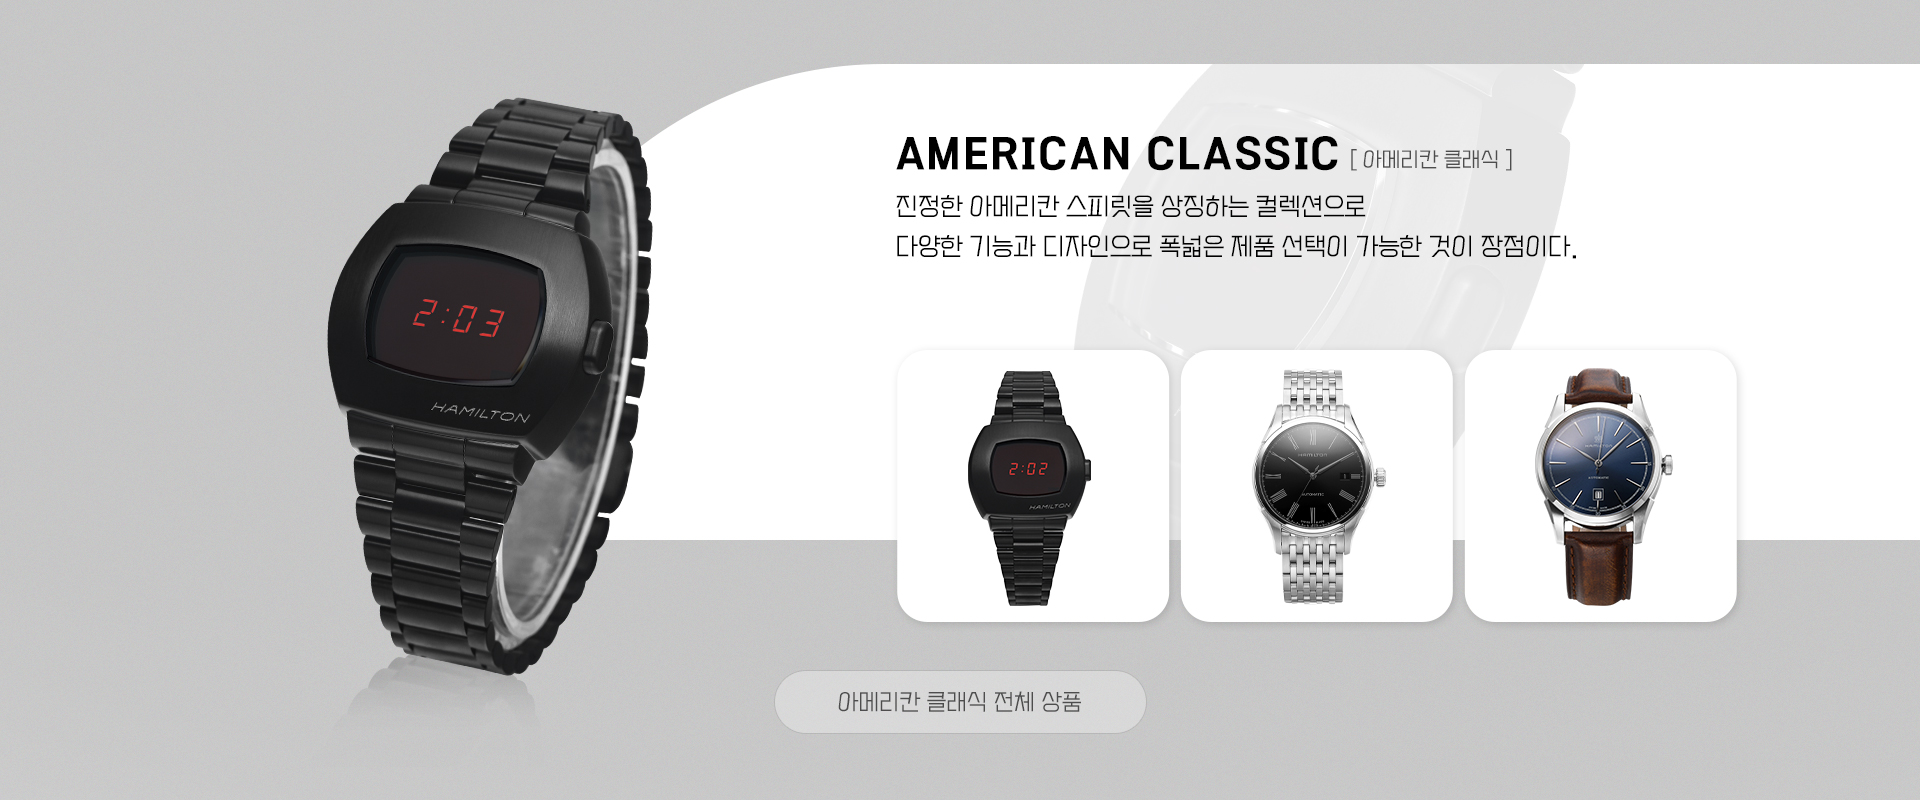
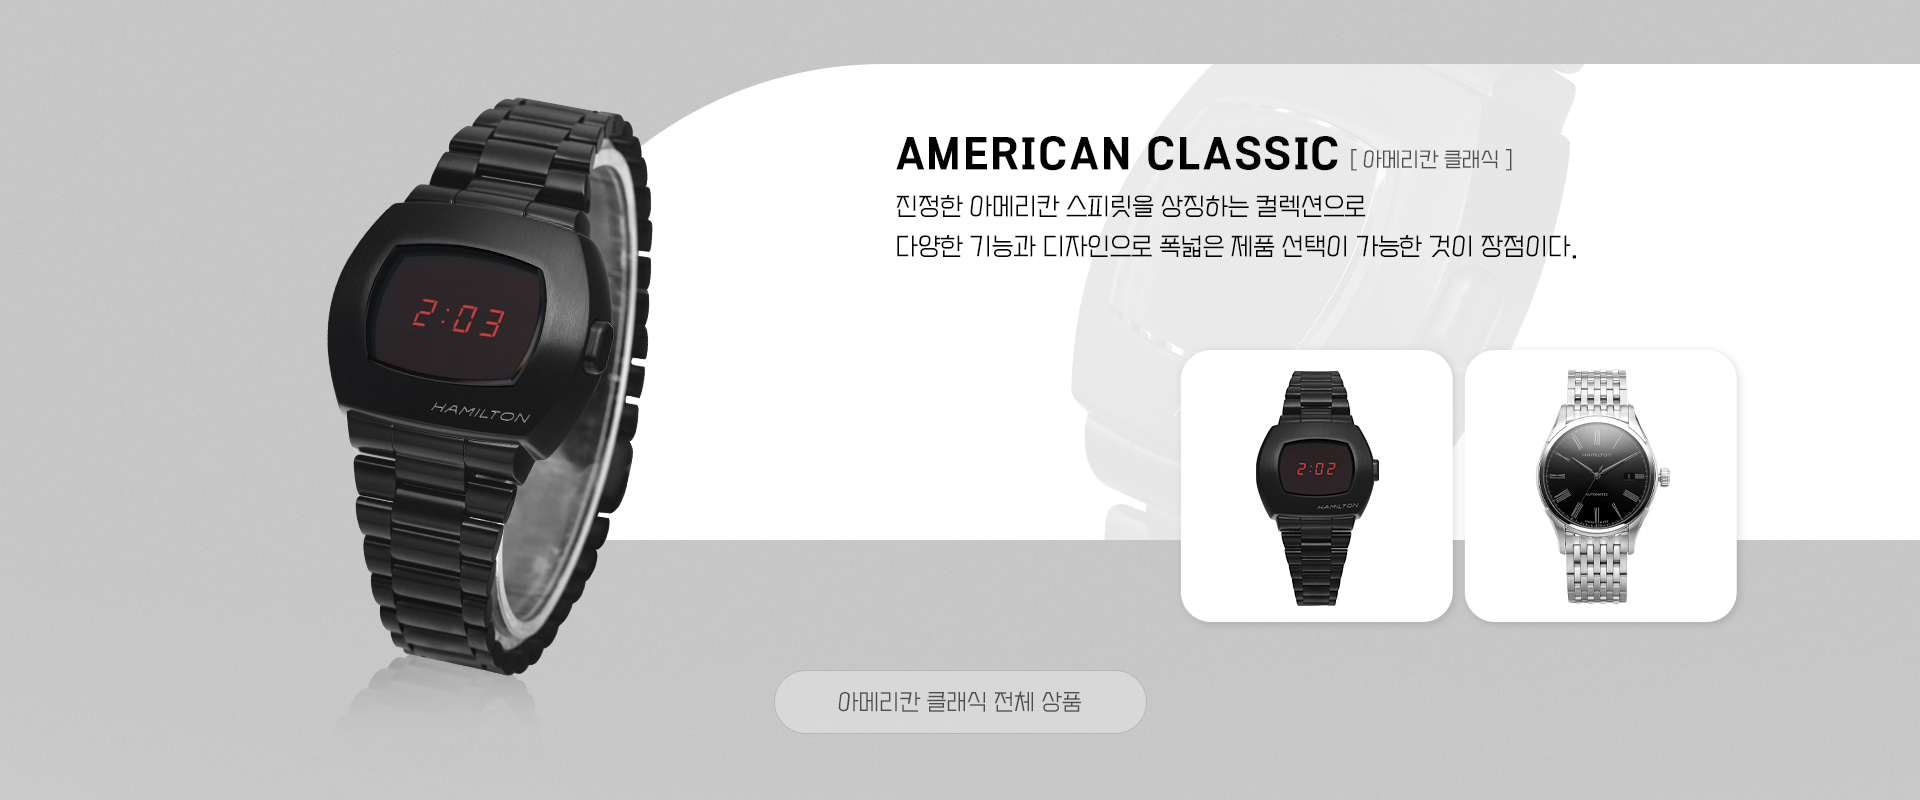
trendmecca 2023/11/29 Hamilton

Changed region(s): [[0.4688, 0.4688, 0.625, 0.7812], [0.7812, 0.4375, 0.875, 0.7812], [0.6562, 0.4375, 0.7188, 0.7812]]

diff --git a/trendmecca/hamilton/index.html b/trendmecca/hamilton/index.html
@@ -36,6 +36,226 @@
             <img src="img/sec2_bg_m.jpg"alt="section2 background image">
         </div>        
     </section>
-    
+    <section class="section3">
+        <div class="section3_swiper">
+            <ul class="swiper-wrapper">
+                <li class="swiper-slide">
+                    <a href="javascript:;" title="product no. H76645140" class="image_wrap">
+                        <img src="img/H76645140_3.png" alt="H76645140">
+                        <p class="product_no">H76645140</p>
+                    </a>
+                </li>
+                <li class="swiper-slide">
+                    <a href="javascript:;" title="product no. H70545540" class="image_wrap">
+                        <img src="img/H70545540_3.png" alt="H76645140">
+                        <p class="product_no">H70545540</p>
+                    </a>
+                </li>
+                <li class="swiper-slide">
+                    <a href="javascript:;" title="product no. H76615130" class="image_wrap">
+                        <img src="img/H76615130_3.png" alt="H76615130">
+                        <p class="product_no">H76615130</p>
+                    </a>
+                </li>
+                <li class="swiper-slide">
+                    <a href="javascript:;" title="product no. H32565135" class="image_wrap">
+                        <img src="img/H32565135_3.png" alt="H32565135">
+                        <p class="product_no">H32565135</p>
+                    </a>
+                </li>
+                <li class="swiper-slide">
+                    <a href="javascript:;" title="product no. H32705541" class="image_wrap">
+                        <img src="img/H32705541_3.png" alt="H32705541">
+                        <p class="product_no">H32705541</p>
+                    </a>
+                </li>
+                <li class="swiper-slide">
+                    <a href="javascript:;" title="product no. H42545551" class="image_wrap">
+                        <img src="img/H42545551_3.png" alt="H42545551">
+                        <p class="product_no">H42545551</p>
+                    </a>
+                </li>
+            </ul>
+        </div>
+    </section>
+    <section class="section4">
+        <div class="content_pc">
+            <img src="img/sec4_bg.jpg" alt="section4 background image">
+            <a href="javascript:;" title="재즈마스터 전체상품" style="position: absolute; left: 40.4%; bottom:8.2%; width:19.4%; height:8%;"></a>
+            <div class="section4_swiper">
+                <ul class="swiper-wrapper">
+                    <li class="swiper-slide">
+                        <a href="javascript:;" title="product no. H32565135" class="image_wrap">
+                            <img src="img/H32565135_4.png" alt="H32565135">
+                        </a>
+                    </li>
+                    <li class="swiper-slide">
+                        <a href="javascript:;" title="product no. H42545551" class="image_wrap">
+                            <img src="img/H42545551_4.png" alt="H42545551">
+                        </a>
+                    </li>
+                    <li class="swiper-slide">
+                        <a href="javascript:;" title="product no. H32705541" class="image_wrap">
+                            <img src="img/H32705541_4.png" alt="H32705541">
+                        </a>
+                    </li>
+                    <li class="swiper-slide">
+                        <a href="javascript:;" title="product no. H32215890" class="image_wrap">
+                            <img src="img/H32215890_4.png" alt="H32215890">
+                        </a>
+                    </li>
+                    <li class="swiper-slide">
+                        <a href="javascript:;" title="product no. H32351135" class="image_wrap">
+                            <img src="img/H32351135_4.png" alt="H32351135">
+                        </a>
+                    </li>
+                    <li class="swiper-slide">
+                        <a href="javascript:;" title="product no. H32451131" class="image_wrap">
+                            <img src="img/H32451131_4.png" alt="H32451131">
+                        </a>
+                    </li>
+                </ul>
+            </div>
+        </div>
+        <div class="content_m">
+            <img src="img/sec4_bg_m.jpg" alt="section4 background image">
+            <div class="section4_swiper_m">
+                <ul class="swiper-wrapper">
+                    <li class="swiper-slide">
+                        <a href="javascript:;" title="product no. H32565135" class="image_wrap">
+                            <img src="img/H32565135_4.png" alt="H32565135">
+                        </a>
+                    </li>
+                    <li class="swiper-slide">
+                        <a href="javascript:;" title="product no. H42545551" class="image_wrap">
+                            <img src="img/H42545551_4.png" alt="H42545551">
+                        </a>
+                    </li>
+                    <li class="swiper-slide">
+                        <a href="javascript:;" title="product no. H32705541" class="image_wrap">
+                            <img src="img/H32705541_4.png" alt="H32705541">
+                        </a>
+                    </li>
+                    <li class="swiper-slide">
+                        <a href="javascript:;" title="product no. H32215890" class="image_wrap">
+                            <img src="img/H32215890_4.png" alt="H32215890">
+                        </a>
+                    </li>
+                    <li class="swiper-slide">
+                        <a href="javascript:;" title="product no. H32351135" class="image_wrap">
+                            <img src="img/H32351135_4.png" alt="H32351135">
+                        </a>
+                    </li>
+                    <li class="swiper-slide">
+                        <a href="javascript:;" title="product no. H32451131" class="image_wrap">
+                            <img src="img/H32451131_4.png" alt="H32451131">
+                        </a>
+                    </li>
+                </ul>
+            </div>
+        </div>
+    </section>
+    <section class="section5">
+        <div class="content_pc">
+            <img src="img/sec5_bg.jpg" alt="section5 background image">
+            <a href="javascript:;" title="카키 전체상품" style="position: absolute; left: 40.4%; bottom: 8.2%; width: 19.4%; height: 8%;"></a>
+            <div class="section5_swiper">
+                <ul class="swiper-wrapper">
+                    <li class="swiper-slide">
+                        <a href="javascript:;" title="product no. H70545540" class="image_wrap">
+                            <img src="img/H70545540_5.png" alt="H70545540">
+                        </a>
+                    </li>
+                    <li class="swiper-slide">
+                        <a href="javascript:;" title="product no. H76615130" class="image_wrap">
+                            <img src="img/H76615130_5.png" alt="H76615130">
+                        </a>
+                    </li>
+                    <li class="swiper-slide">
+                        <a href="javascript:;" title="product no. H76645140" class="image_wrap">
+                            <img src="img/H76645140_5.png" alt="H76645140">
+                        </a>
+                    </li>
+                    <li class="swiper-slide">
+                        <a href="javascript:;" title="product no. H64455533" class="image_wrap">
+                            <img src="img/H64455533_5.png" alt="H64455533">
+                        </a>
+                    </li>
+                    <li class="swiper-slide">
+                        <a href="javascript:;" title="product no. H64615585" class="image_wrap">
+                            <img src="img/H64615585_5.png" alt="H64615585">
+                        </a>
+                    </li>
+                    <li class="swiper-slide">
+                        <a href="javascript:;" title="product no. H68551833" class="image_wrap">
+                            <img src="img/H68551833_5.png" alt="H68551833">
+                        </a>
+                    </li>
+                </ul>
+            </div>
+        </div>
+        <div class="content_m">
+            <img src="img/sec5_bg_m.jpg" alt="section5 background image">
+            <div class="section4_swiper_m">
+                <ul class="swiper-wrapper">
+                    <li class="swiper-slide">
+                        <a href="javascript:;" title="product no. H70545540" class="image_wrap">
+                            <img src="img/H70545540_5.png" alt="H70545540">
+                        </a>
+                    </li>
+                    <li class="swiper-slide">
+                        <a href="javascript:;" title="product no. H76615130" class="image_wrap">
+                            <img src="img/H76615130_5.png" alt="H76615130">
+                        </a>
+                    </li>
+                    <li class="swiper-slide">
+                        <a href="javascript:;" title="product no. H76645140" class="image_wrap">
+                            <img src="img/H76645140_5.png" alt="H76645140">
+                        </a>
+                    </li>
+                    <li class="swiper-slide">
+                        <a href="javascript:;" title="product no. H64455533" class="image_wrap">
+                            <img src="img/H64455533_5.png" alt="H64455533">
+                        </a>
+                    </li>
+                    <li class="swiper-slide">
+                        <a href="javascript:;" title="product no. H64615585" class="image_wrap">
+                            <img src="img/H64615585_5.png" alt="H64615585">
+                        </a>
+                    </li>
+                    <li class="swiper-slide">
+                        <a href="javascript:;" title="product no. H68551833" class="image_wrap">
+                            <img src="img/H68551833_5.png" alt="H68551833">
+                        </a>
+                    </li>
+                </ul>
+            </div>
+        </div>
+    </section>
+    <section class="section6">
+        <div class="content_pc">
+            <img src="img/sec6_bg.jpg" alt="section6 background image">
+            <a href="javascript:;" title="아메리칸 클래식 전체상품" style="position: absolute; left: 40.4%; bottom: 8.2%; width: 19.4%; height: 8%;"></a>
+            <a href="javascript:;" title="H52404130" style="position:absolute; right:24.3%; bottom:22.2%; width:14.2%; height:34.2%;"></a>
+            <a href="javascript:;" title="H39515134" style="position:absolute; right:9.5%; bottom:22.2%; width:14.2%; height:34.2%;"></a>
+        </div>
+        <div class="content_m">
+            <img src="img/sec6_bg_m.jpg" alt="section6 background image">
+            <div class="section4_swiper_m">
+                <ul class="swiper-wrapper">
+                    <li class="swiper-slide">
+                        <a href="javascript:;" title="product no. H52404130" class="image_wrap">
+                            <img src="img/H52404130_6.png" alt="H52404130">
+                        </a>
+                    </li>
+                    <li class="swiper-slide">
+                        <a href="javascript:;" title="product no. H39515134" class="image_wrap">
+                            <img src="img/H39515134_6.png" alt="H39515134">
+                        </a>
+                    </li>
+                </ul>
+            </div>
+        </div>
+    </section>
 </body>
 </html>

diff --git a/trendmecca/hamilton/css/style.css b/trendmecca/hamilton/css/style.css
@@ -6,24 +6,19 @@
         	.content_pc{position:relative; width:100%; font-size:0;}            
         	.content_pc img{width:100%;}
             .pin-spacer{background-color:#f7f7f7; width: 100%;}
-			.image_wrap img {width:100%;}
+			.image_wrap img {width:100%;}            
             .sec1_obj2{position:absolute; left:0; top:0; width:100%;opacity:0; animation: sec1_ani1 12s ease infinite;}
             @keyframes sec1_ani1{25%{opacity:1;} 50%{opacity:0;} 75%{opacity:1;} 100%{opacity:0;}}
-            .section2{height:75vh; background-color:#f7f7f7;}
+            .section2{height:60vh; background-color:#f7f7f7;}
             .section2_m{display:none;}
-            .sec2_obj1{width:21%; margin:140px auto; opacity:0;}
-            .sec2_obj2{width:46%; margin:0 auto;opacity:0;}
-            .sec2_obj3{width:45%; margin:70px auto;opacity:0;}
+            .sec2_obj1{position:absolute; left:50%; top:17%; transform:translateX(-50%); width:21%; opacity:0;}
+            .sec2_obj2{position:absolute; left:50%; margin-top:-9px; transform:translateX(-50%); width:46%; opacity:0;}
+            .sec2_obj3{position:absolute; left:50%; margin-top:-143px; transform:translateX(-50%); width:45%; ;opacity:0;}
             .section3{padding:100px 0; background-color:#fff;}
-           	.section3_swiper{width:90%; margin:0 auto;}
+           	.section3_swiper{width:90%; margin:0 auto; overflow: hidden;}
             .product_no{font-size:25px; text-align:center; color: #3a3a3a; font-family: 'Noto Sans KR', sans-serif;}            
-            .section4_swiper{position:absolute; right:3.2%; bottom:20%;  width:70%;}
-            .content_pc .section4_swiper .swiper-slide {margin-right:2.6%!important; width:31%!important;}            
-            .section5_swiper{position:absolute; left:3.2%; bottom:20%;  width:70%;}
-            .content_pc .section5_swiper .swiper-slide {margin-right:2.6%!important; width:31%!important;}         		
-        	.issue__prodList__wrapper {position:relative;}
-			.issue__prodList__wrapper .swiper-button-prev{width:50px; height:50px; left:0 !important;  background-image:url("/design/mobile_kr/mainArrow_l_.png") !important;}
-			.issue__prodList__wrapper .swiper-button-next{width:50px; height:50px; right:0 !important; background-image:url("/design/mobile_kr/mainArrow_r_.png") !important;}           
+            .section4_swiper{position:absolute; right:3.2%; bottom:20%;  width:50%; overflow: hidden;}
+            .section5_swiper{position:absolute; left:3.2%; bottom:20%;  width:50%; overflow: hidden;}
         }        
         @media screen and (max-width: 1024px){
             .xans-layout-mobileaction{display:none!important;}
@@ -38,8 +33,8 @@
             .section2_m{display:block;}
             .section2_swiper{padding:20px 10px; background-color:#f7f7f7;}
             .image_wrap img{width:100%;}
-            .product_no{font-size:20px; text-align:center;}
-            .section3_swiper{padding:20px 0;}
-            .section4_swiper_m{padding:20px 10px;}
+            .product_no{font-size:20px; text-align:center; color:#3a3a3a;}
+            .section3_swiper{padding:30px; overflow: hidden;}
+            .section4_swiper_m, .section5_swiper_m{padding:20px 10px; overflow: hidden;}
             .section6{padding-bottom:1px;}
         }

diff --git a/trendmecca/hamilton/script/script.js b/trendmecca/hamilton/script/script.js
@@ -3,18 +3,78 @@ $(document).ready(function() {
         scrollTrigger:{
             trigger:".section2",
             pin: true,
-            start:'top 30%',
-            end:'100% -10%',
+            start:'top 50%',
+            end:'100% -40%',
             scrub:1.5 //start-end
         }
     });
-     tl.to(".sec2_obj1",{y:-250,opacity:1})
-       .to(".sec2_obj2",{y:-250,opacity:1})
-       .to(".sec2_obj3",{y:-250,opacity:1})
+     tl.to(".sec2_obj1",{opacity:1})
+       .to(".sec2_obj1",{opacity:0})
+       .to(".sec2_obj2",{opacity:1})
+       .to(".sec2_obj2",{opacity:0})
+       .to(".sec2_obj3",{opacity:1})
  
- 
-     
-     
+    
+    new Swiper ('.section3_swiper', {
+        loop: true,        
+        speed:800,
+        autoplay: {
+            delay: 1500,
+            disableOnInteraction: false,
+        },
+        breakpoints: {
+            1025: {
+                slidesPerView: 3,                
+            },
+            300: {
+                slidesPerView: 1,                
+            },
+        },                
+    });
+
+    new Swiper ('.section4_swiper', {
+        loop: true,        
+        speed:800,
+        slidesPerView: 3,
+        spaceBetween: 20,
+        autoplay: {
+            delay: 1500,
+            disableOnInteraction: false,
+        },                        
+    });
+
+    new Swiper ('.section4_swiper_m', {
+        loop: true,        
+        speed:800,
+        slidesPerView: 2,
+        spaceBetween: 20,
+        autoplay: {
+            delay: 1500,
+            disableOnInteraction: false,
+        },                        
+    });
+
+    new Swiper ('.section5_swiper', {
+        loop: true,        
+        speed:800,
+        slidesPerView: 3,
+        spaceBetween: 20,
+        autoplay: {
+            delay: 1500,
+            disableOnInteraction: false,
+        },                        
+    });
+
+    new Swiper ('.section5_swiper_m', {
+        loop: true,        
+        speed:800,
+        slidesPerView: 2,
+        spaceBetween: 20,
+        autoplay: {
+            delay: 1500,
+            disableOnInteraction: false,
+        },                        
+    });
     
      
  
